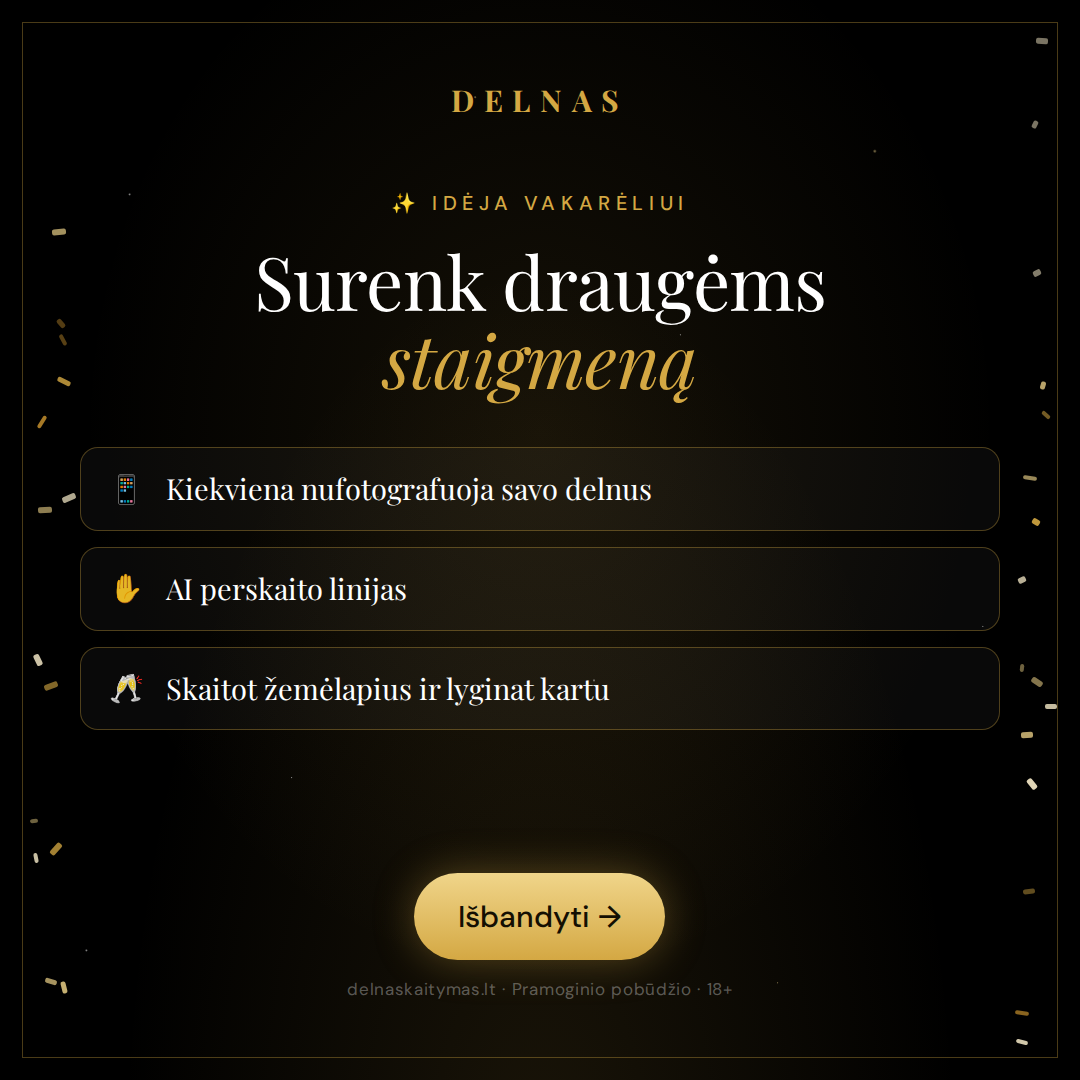
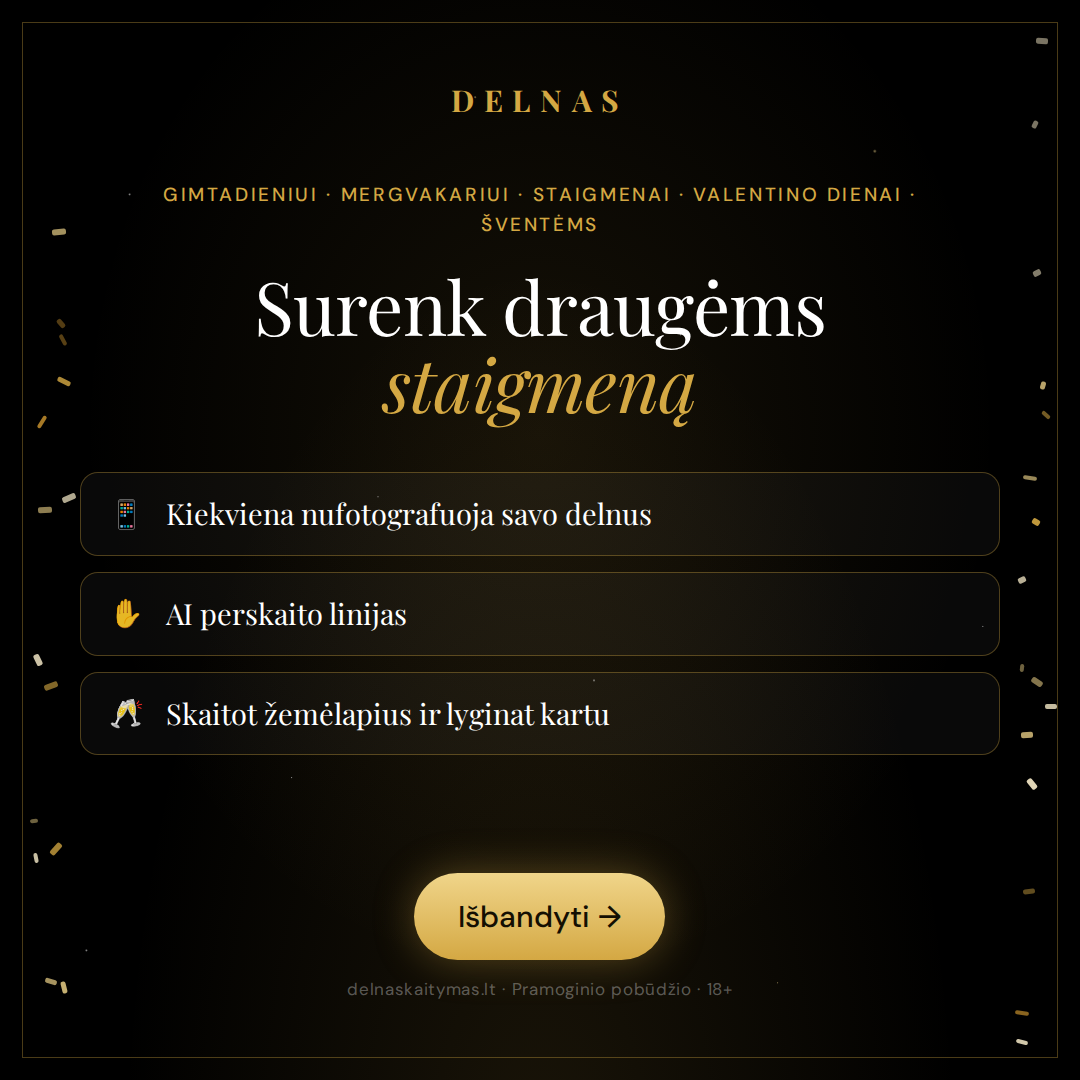
Reklamos: progų reklamos (31–39) bendros visoms progoms
Claude-Session: https://claude.ai/code/session_01SAS6jcXVwrehsNMXyhjzXP

diff --git a/reklamos/reklamos.html b/reklamos/reklamos.html
@@ -137,6 +137,9 @@
   .ad.valent h1 em,.ad.valent .eyebrow{color:#f0a0a8}
   .ad.valent .cta{background:linear-gradient(180deg,#f7c7b0,#e0867f);color:#2a0710;box-shadow:0 0 40px rgba(224,134,127,.4)}
   .ad.valent::after{border-color:rgba(240,160,168,.35)}
+
+  .occ{font:500 19px/1.6 'DM Sans';letter-spacing:.14em;text-transform:uppercase;color:var(--gold)}
+  .ad.light .occ{color:#a8781f} .ad.blush .occ{color:#a86a3a} .ad.valent .occ{color:#f0a0a8}
 </style>
 </head>
 <body>
@@ -793,8 +796,8 @@
   <div class="hand" style="width:520px;height:720px;right:-30px;top:260px"></div>
   <div class="brand">DELNAS</div>
   <div style="margin-top:120px;max-width:560px;display:flex;flex-direction:column;gap:30px">
-    <div class="eyebrow">🎂 Su gimtadieniu!</div>
-    <h1 style="font-size:76px">Gimtadienis —<br><em>geriausia proga<br>pažvelgti į save</em></h1>
+    <div class="occ">Gimtadieniui · Mergvakariui · Staigmenai · Valentino&nbsp;dienai · Šventėms</div>
+    <h1 style="font-size:70px"><span style="white-space:nowrap">Ypatinga proga —</span><br><em>pažvelgti į save</em></h1>
     <p class="sub" style="font-size:29px">Asmeninis gyvenimo žemėlapis pagal tavo delnus.</p>
   </div>
   <div class="row" style="margin-top:auto"><div class="cta">Pasidovanoti sau →</div></div>
@@ -808,7 +811,7 @@
 <div class="ad light" id="32-gimtadienio-vakarelis-story-1080x1920" style="width:1080px;height:1920px;padding:150px 90px 260px;align-items:center;text-align:center">
   <i class="cf" style="left:61px;top:1338px;width:10px;height:6px;background:#f0d58a;opacity:0.70;transform:rotate(47deg)"></i><i class="cf" style="left:1015px;top:1130px;width:12px;height:6px;background:#b8862a;opacity:0.74;transform:rotate(135deg)"></i><i class="cf" style="left:38px;top:1303px;width:10px;height:5px;background:#f0d58a;opacity:0.88;transform:rotate(77deg)"></i><i class="cf" style="left:42px;top:978px;width:12px;height:5px;background:#fff3cf;opacity:0.82;transform:rotate(162deg)"></i><i class="cf" style="left:51px;top:955px;width:10px;height:6px;background:#f0d58a;opacity:0.59;transform:rotate(87deg)"></i><i class="cf" style="left:41px;top:207px;width:14px;height:6px;background:#fff3cf;opacity:0.84;transform:rotate(62deg)"></i><i class="cf" style="left:1014px;top:162px;width:12px;height:4px;background:#d4a843;opacity:0.82;transform:rotate(18deg)"></i><i class="cf" style="left:1040px;top:673px;width:10px;height:4px;background:#d4a843;opacity:0.64;transform:rotate(67deg)"></i><i class="cf" style="left:1017px;top:1812px;width:14px;height:4px;background:#d4a843;opacity:0.52;transform:rotate(17deg)"></i><i class="cf" style="left:45px;top:1232px;width:12px;height:4px;background:#f0d58a;opacity:0.58;transform:rotate(71deg)"></i><i class="cf" style="left:1031px;top:1385px;width:8px;height:5px;background:#f0d58a;opacity:0.84;transform:rotate(45deg)"></i><i class="cf" style="left:1036px;top:1738px;width:12px;height:6px;background:#fff3cf;opacity:0.90;transform:rotate(77deg)"></i><i class="cf" style="left:1030px;top:1837px;width:8px;height:6px;background:#f0d58a;opacity:0.71;transform:rotate(166deg)"></i><i class="cf" style="left:54px;top:1309px;width:8px;height:5px;background:#f0d58a;opacity:0.60;transform:rotate(88deg)"></i><i class="cf" style="left:30px;top:895px;width:12px;height:4px;background:#b8862a;opacity:0.75;transform:rotate(116deg)"></i><i class="cf" style="left:1034px;top:1822px;width:14px;height:5px;background:#fff3cf;opacity:0.64;transform:rotate(36deg)"></i><i class="cf" style="left:1041px;top:1374px;width:8px;height:5px;background:#b8862a;opacity:0.72;transform:rotate(95deg)"></i><i class="cf" style="left:1021px;top:810px;width:14px;height:5px;background:#d4a843;opacity:0.68;transform:rotate(0deg)"></i><i class="cf" style="left:39px;top:758px;width:12px;height:5px;background:#b8862a;opacity:0.56;transform:rotate(16deg)"></i><i class="cf" style="left:42px;top:482px;width:10px;height:6px;background:#fff3cf;opacity:0.51;transform:rotate(172deg)"></i><i class="cf" style="left:1040px;top:1143px;width:12px;height:5px;background:#d4a843;opacity:0.57;transform:rotate(47deg)"></i><i class="cf" style="left:1030px;top:1623px;width:8px;height:5px;background:#fff3cf;opacity:0.75;transform:rotate(8deg)"></i><i class="cf" style="left:48px;top:245px;width:14px;height:6px;background:#fff3cf;opacity:0.87;transform:rotate(139deg)"></i><i class="cf" style="left:40px;top:658px;width:10px;height:6px;background:#b8862a;opacity:0.85;transform:rotate(67deg)"></i><i class="cf" style="left:36px;top:499px;width:8px;height:4px;background:#f0d58a;opacity:0.59;transform:rotate(88deg)"></i><i class="cf" style="left:36px;top:499px;width:8px;height:6px;background:#fff3cf;opacity:0.48;transform:rotate(94deg)"></i><i class="cf" style="left:57px;top:398px;width:12px;height:4px;background:#fff3cf;opacity:0.49;transform:rotate(100deg)"></i><i class="cf" style="left:63px;top:278px;width:14px;height:5px;background:#b8862a;opacity:0.80;transform:rotate(22deg)"></i><i class="cf" style="left:1045px;top:1873px;width:8px;height:4px;background:#fff3cf;opacity:0.85;transform:rotate(152deg)"></i><i class="cf" style="left:1044px;top:949px;width:14px;height:6px;background:#f0d58a;opacity:0.74;transform:rotate(102deg)"></i><i class="cf" style="left:48px;top:134px;width:12px;height:6px;background:#f0d58a;opacity:0.52;transform:rotate(112deg)"></i><i class="cf" style="left:51px;top:299px;width:8px;height:6px;background:#fff3cf;opacity:0.62;transform:rotate(113deg)"></i><i class="cf" style="left:1018px;top:921px;width:12px;height:6px;background:#fff3cf;opacity:0.49;transform:rotate(91deg)"></i><i class="cf" style="left:1026px;top:308px;width:8px;height:4px;background:#f0d58a;opacity:0.51;transform:rotate(21deg)"></i><i class="cf" style="left:1041px;top:1285px;width:10px;height:6px;background:#b8862a;opacity:0.85;transform:rotate(3deg)"></i><i class="cf" style="left:1016px;top:765px;width:12px;height:6px;background:#b8862a;opacity:0.59;transform:rotate(38deg)"></i><i class="cf" style="left:46px;top:1193px;width:14px;height:6px;background:#b8862a;opacity:0.74;transform:rotate(155deg)"></i><i class="cf" style="left:1045px;top:1768px;width:10px;height:6px;background:#fff3cf;opacity:0.84;transform:rotate(129deg)"></i><i class="cf" style="left:63px;top:584px;width:12px;height:6px;background:#b8862a;opacity:0.56;transform:rotate(107deg)"></i><i class="cf" style="left:33px;top:964px;width:8px;height:6px;background:#f0d58a;opacity:0.87;transform:rotate(179deg)"></i><i class="cf" style="left:32px;top:992px;width:12px;height:5px;background:#b8862a;opacity:0.45;transform:rotate(73deg)"></i><i class="cf" style="left:1041px;top:89px;width:8px;height:4px;background:#b8862a;opacity:0.64;transform:rotate(39deg)"></i><i class="cf" style="left:1026px;top:835px;width:12px;height:6px;background:#f0d58a;opacity:0.82;transform:rotate(19deg)"></i><i class="cf" style="left:1043px;top:450px;width:8px;height:4px;background:#fff3cf;opacity:0.71;transform:rotate(16deg)"></i><i class="cf" style="left:1039px;top:929px;width:12px;height:6px;background:#f0d58a;opacity:0.49;transform:rotate(123deg)"></i><i class="cf" style="left:1030px;top:823px;width:12px;height:5px;background:#d4a843;opacity:0.56;transform:rotate(92deg)"></i><i class="cf" style="left:56px;top:61px;width:12px;height:6px;background:#d4a843;opacity:0.63;transform:rotate(151deg)"></i><i class="cf" style="left:1012px;top:1365px;width:12px;height:6px;background:#f0d58a;opacity:0.74;transform:rotate(135deg)"></i><i class="cf" style="left:1027px;top:814px;width:10px;height:5px;background:#f0d58a;opacity:0.83;transform:rotate(101deg)"></i><i class="cf" style="left:1016px;top:1275px;width:12px;height:4px;background:#fff3cf;opacity:0.82;transform:rotate(14deg)"></i><i class="cf" style="left:1039px;top:974px;width:12px;height:4px;background:#b8862a;opacity:0.50;transform:rotate(91deg)"></i><i class="cf" style="left:34px;top:78px;width:10px;height:6px;background:#fff3cf;opacity:0.62;transform:rotate(1deg)"></i><i class="cf" style="left:55px;top:1727px;width:12px;height:5px;background:#fff3cf;opacity:0.50;transform:rotate(25deg)"></i><i class="cf" style="left:1032px;top:482px;width:14px;height:5px;background:#f0d58a;opacity:0.82;transform:rotate(118deg)"></i><i class="cf" style="left:1031px;top:530px;width:10px;height:5px;background:#fff3cf;opacity:0.61;transform:rotate(58deg)"></i><i class="cf" style="left:1020px;top:1614px;width:10px;height:4px;background:#b8862a;opacity:0.79;transform:rotate(129deg)"></i><i class="cf" style="left:1031px;top:556px;width:12px;height:6px;background:#b8862a;opacity:0.47;transform:rotate(96deg)"></i><i class="cf" style="left:59px;top:153px;width:10px;height:4px;background:#b8862a;opacity:0.67;transform:rotate(141deg)"></i><i class="cf" style="left:1039px;top:861px;width:8px;height:4px;background:#f0d58a;opacity:0.61;transform:rotate(2deg)"></i><i class="cf" style="left:1043px;top:1648px;width:8px;height:6px;background:#fff3cf;opacity:0.62;transform:rotate(160deg)"></i>
   <div class="brand">DELNAS</div>
-  <p class="eyebrow" style="margin-top:90px">🎉 Gimtadienio vakarėliui</p>
+  <div class="occ" style="margin-top:90px;max-width:900px;font-size:25px">Gimtadieniui · Mergvakariui · Staigmenai · Valentino&nbsp;dienai · Šventėms</div>
   <h1 style="font-size:88px;margin-top:30px">Kažkas<br><em>kitokio</em></h1>
   <div class="medal" style="width:360px;height:360px;left:120px;top:740px"><i></i></div>
   <div class="medal" style="width:360px;height:360px;left:360px;top:860px"><i style="transform:scaleX(-1)"></i></div>
@@ -827,7 +830,7 @@
 <div class="ad" id="33-staigmena-1080x1080" style="width:1080px;height:1080px;padding:80px;align-items:center;text-align:center">
   <i class="cf" style="left:32px;top:657px;width:12px;height:6px;background:#fff3cf;opacity:0.80;transform:rotate(64deg)"></i><i class="cf" style="left:1021px;top:732px;width:12px;height:6px;background:#f0d58a;opacity:0.76;transform:rotate(178deg)"></i><i class="cf" style="left:62px;top:495px;width:14px;height:6px;background:#fff3cf;opacity:0.69;transform:rotate(157deg)"></i><i class="cf" style="left:1031px;top:122px;width:8px;height:5px;background:#fff3cf;opacity:0.48;transform:rotate(117deg)"></i><i class="cf" style="left:1026px;top:781px;width:12px;height:6px;background:#fff3cf;opacity:0.88;transform:rotate(51deg)"></i><i class="cf" style="left:1015px;top:1011px;width:14px;height:4px;background:#b8862a;opacity:0.75;transform:rotate(9deg)"></i><i class="cf" style="left:1031px;top:679px;width:12px;height:6px;background:#f0d58a;opacity:0.55;transform:rotate(33deg)"></i><i class="cf" style="left:1023px;top:476px;width:14px;height:4px;background:#f0d58a;opacity:0.64;transform:rotate(8deg)"></i><i class="cf" style="left:1033px;top:270px;width:8px;height:6px;background:#fff3cf;opacity:0.51;transform:rotate(153deg)"></i><i class="cf" style="left:57px;top:338px;width:12px;height:4px;background:#b8862a;opacity:0.48;transform:rotate(62deg)"></i><i class="cf" style="left:1018px;top:577px;width:8px;height:6px;background:#fff3cf;opacity:0.72;transform:rotate(155deg)"></i><i class="cf" style="left:45px;top:979px;width:12px;height:5px;background:#f0d58a;opacity:0.69;transform:rotate(17deg)"></i><i class="cf" style="left:31px;top:856px;width:10px;height:4px;background:#fff3cf;opacity:0.78;transform:rotate(79deg)"></i><i class="cf" style="left:49px;top:846px;width:14px;height:6px;background:#d4a843;opacity:0.77;transform:rotate(132deg)"></i><i class="cf" style="left:35px;top:420px;width:14px;height:4px;background:#b8862a;opacity:0.90;transform:rotate(122deg)"></i><i class="cf" style="left:1039px;top:383px;width:8px;height:5px;background:#f0d58a;opacity:0.76;transform:rotate(107deg)"></i><i class="cf" style="left:52px;top:229px;width:14px;height:6px;background:#f0d58a;opacity:0.68;transform:rotate(174deg)"></i><i class="cf" style="left:1023px;top:889px;width:12px;height:5px;background:#d4a843;opacity:0.46;transform:rotate(174deg)"></i><i class="cf" style="left:1016px;top:1040px;width:12px;height:4px;background:#fff3cf;opacity:0.82;transform:rotate(14deg)"></i><i class="cf" style="left:1036px;top:38px;width:12px;height:6px;background:#fff3cf;opacity:0.48;transform:rotate(4deg)"></i><i class="cf" style="left:56px;top:321px;width:10px;height:5px;background:#b8862a;opacity:0.45;transform:rotate(49deg)"></i><i class="cf" style="left:1045px;top:704px;width:12px;height:5px;background:#fff3cf;opacity:0.77;transform:rotate(179deg)"></i><i class="cf" style="left:1041px;top:413px;width:10px;height:4px;background:#d4a843;opacity:0.54;transform:rotate(42deg)"></i><i class="cf" style="left:57px;top:379px;width:14px;height:5px;background:#d4a843;opacity:0.81;transform:rotate(26deg)"></i><i class="cf" style="left:58px;top:985px;width:12px;height:5px;background:#f0d58a;opacity:0.82;transform:rotate(76deg)"></i><i class="cf" style="left:44px;top:683px;width:14px;height:6px;background:#d4a843;opacity:0.61;transform:rotate(160deg)"></i><i class="cf" style="left:38px;top:507px;width:14px;height:6px;background:#f0d58a;opacity:0.59;transform:rotate(177deg)"></i><i class="cf" style="left:1018px;top:666px;width:8px;height:4px;background:#f0d58a;opacity:0.46;transform:rotate(96deg)"></i><i class="cf" style="left:30px;top:819px;width:8px;height:4px;background:#f0d58a;opacity:0.46;transform:rotate(175deg)"></i><i class="cf" style="left:1032px;top:519px;width:8px;height:6px;background:#d4a843;opacity:0.90;transform:rotate(33deg)"></i>
   <div class="brand">DELNAS</div>
-  <div class="eyebrow" style="margin-top:70px">✨ Idėja vakarėliui</div>
+  <div class="occ" style="margin-top:60px;max-width:880px">Gimtadieniui · Mergvakariui · Staigmenai · Valentino&nbsp;dienai · Šventėms</div>
   <h1 style="font-size:74px;margin-top:26px">Surenk draugėms<br><em>staigmeną</em></h1>
   <div style="margin-top:50px;display:flex;flex-direction:column;gap:16px;align-self:stretch;text-align:left">
     <div class="lock"><i>📱</i><b>Kiekviena nufotografuoja savo delnus</b></div>
@@ -847,7 +850,8 @@
 <div class="ad" id="34-staigmena-story-1080x1920" style="width:1080px;height:1920px;padding:150px 90px 260px;align-items:center;text-align:center">
   <i class="cf" style="left:63px;top:316px;width:8px;height:6px;background:#f0d58a;opacity:0.53;transform:rotate(29deg)"></i><i class="cf" style="left:51px;top:641px;width:14px;height:6px;background:#fff3cf;opacity:0.84;transform:rotate(33deg)"></i><i class="cf" style="left:1017px;top:973px;width:8px;height:6px;background:#fff3cf;opacity:0.87;transform:rotate(164deg)"></i><i class="cf" style="left:47px;top:709px;width:14px;height:5px;background:#b8862a;opacity:0.47;transform:rotate(169deg)"></i><i class="cf" style="left:1043px;top:475px;width:12px;height:4px;background:#f0d58a;opacity:0.46;transform:rotate(70deg)"></i><i class="cf" style="left:48px;top:920px;width:12px;height:5px;background:#b8862a;opacity:0.88;transform:rotate(11deg)"></i><i class="cf" style="left:1021px;top:1423px;width:8px;height:4px;background:#d4a843;opacity:0.56;transform:rotate(169deg)"></i><i class="cf" style="left:51px;top:825px;width:10px;height:4px;background:#f0d58a;opacity:0.81;transform:rotate(143deg)"></i><i class="cf" style="left:1030px;top:1461px;width:12px;height:4px;background:#d4a843;opacity:0.65;transform:rotate(54deg)"></i><i class="cf" style="left:60px;top:1250px;width:12px;height:6px;background:#f0d58a;opacity:0.68;transform:rotate(36deg)"></i><i class="cf" style="left:56px;top:1586px;width:8px;height:4px;background:#b8862a;opacity:0.82;transform:rotate(126deg)"></i><i class="cf" style="left:64px;top:283px;width:10px;height:5px;background:#fff3cf;opacity:0.76;transform:rotate(14deg)"></i><i class="cf" style="left:32px;top:1431px;width:8px;height:4px;background:#f0d58a;opacity:0.47;transform:rotate(64deg)"></i><i class="cf" style="left:46px;top:1264px;width:12px;height:6px;background:#fff3cf;opacity:0.75;transform:rotate(3deg)"></i><i class="cf" style="left:60px;top:440px;width:10px;height:4px;background:#d4a843;opacity:0.45;transform:rotate(102deg)"></i><i class="cf" style="left:1038px;top:501px;width:14px;height:6px;background:#d4a843;opacity:0.87;transform:rotate(31deg)"></i><i class="cf" style="left:1026px;top:1030px;width:14px;height:6px;background:#fff3cf;opacity:0.64;transform:rotate(127deg)"></i><i class="cf" style="left:31px;top:1126px;width:14px;height:4px;background:#fff3cf;opacity:0.66;transform:rotate(125deg)"></i><i class="cf" style="left:1038px;top:811px;width:10px;height:6px;background:#f0d58a;opacity:0.61;transform:rotate(74deg)"></i><i class="cf" style="left:1018px;top:1488px;width:12px;height:4px;background:#d4a843;opacity:0.90;transform:rotate(171deg)"></i><i class="cf" style="left:1039px;top:247px;width:10px;height:5px;background:#b8862a;opacity:0.56;transform:rotate(20deg)"></i><i class="cf" style="left:1041px;top:1281px;width:14px;height:5px;background:#b8862a;opacity:0.75;transform:rotate(152deg)"></i><i class="cf" style="left:1032px;top:375px;width:14px;height:6px;background:#b8862a;opacity:0.78;transform:rotate(51deg)"></i><i class="cf" style="left:35px;top:344px;width:10px;height:5px;background:#f0d58a;opacity:0.64;transform:rotate(35deg)"></i><i class="cf" style="left:64px;top:1211px;width:8px;height:6px;background:#d4a843;opacity:0.47;transform:rotate(155deg)"></i><i class="cf" style="left:48px;top:899px;width:14px;height:5px;background:#fff3cf;opacity:0.81;transform:rotate(131deg)"></i><i class="cf" style="left:35px;top:246px;width:8px;height:6px;background:#fff3cf;opacity:0.53;transform:rotate(23deg)"></i><i class="cf" style="left:1017px;top:649px;width:8px;height:6px;background:#f0d58a;opacity:0.53;transform:rotate(120deg)"></i><i class="cf" style="left:63px;top:1866px;width:8px;height:4px;background:#d4a843;opacity:0.76;transform:rotate(155deg)"></i><i class="cf" style="left:65px;top:877px;width:8px;height:5px;background:#fff3cf;opacity:0.46;transform:rotate(12deg)"></i><i class="cf" style="left:63px;top:1768px;width:12px;height:5px;background:#fff3cf;opacity:0.90;transform:rotate(18deg)"></i><i class="cf" style="left:1034px;top:1785px;width:8px;height:4px;background:#fff3cf;opacity:0.56;transform:rotate(53deg)"></i><i class="cf" style="left:46px;top:1252px;width:10px;height:6px;background:#f0d58a;opacity:0.82;transform:rotate(122deg)"></i><i class="cf" style="left:64px;top:184px;width:10px;height:6px;background:#d4a843;opacity:0.66;transform:rotate(66deg)"></i><i class="cf" style="left:1018px;top:1287px;width:10px;height:5px;background:#b8862a;opacity:0.61;transform:rotate(77deg)"></i><i class="cf" style="left:64px;top:1631px;width:12px;height:5px;background:#fff3cf;opacity:0.73;transform:rotate(33deg)"></i><i class="cf" style="left:1014px;top:456px;width:14px;height:4px;background:#fff3cf;opacity:0.74;transform:rotate(37deg)"></i><i class="cf" style="left:65px;top:309px;width:14px;height:4px;background:#f0d58a;opacity:0.86;transform:rotate(63deg)"></i><i class="cf" style="left:60px;top:1316px;width:8px;height:6px;background:#d4a843;opacity:0.71;transform:rotate(26deg)"></i><i class="cf" style="left:1027px;top:433px;width:10px;height:5px;background:#b8862a;opacity:0.83;transform:rotate(171deg)"></i><i class="cf" style="left:1019px;top:571px;width:14px;height:6px;background:#fff3cf;opacity:0.77;transform:rotate(34deg)"></i><i class="cf" style="left:1045px;top:531px;width:14px;height:5px;background:#d4a843;opacity:0.73;transform:rotate(11deg)"></i><i class="cf" style="left:62px;top:405px;width:14px;height:5px;background:#f0d58a;opacity:0.48;transform:rotate(49deg)"></i><i class="cf" style="left:48px;top:740px;width:14px;height:6px;background:#d4a843;opacity:0.70;transform:rotate(83deg)"></i><i class="cf" style="left:1016px;top:1410px;width:12px;height:5px;background:#fff3cf;opacity:0.62;transform:rotate(51deg)"></i><i class="cf" style="left:1017px;top:862px;width:8px;height:4px;background:#fff3cf;opacity:0.77;transform:rotate(61deg)"></i><i class="cf" style="left:1030px;top:1701px;width:8px;height:4px;background:#f0d58a;opacity:0.68;transform:rotate(9deg)"></i><i class="cf" style="left:60px;top:158px;width:8px;height:6px;background:#fff3cf;opacity:0.53;transform:rotate(111deg)"></i><i class="cf" style="left:33px;top:588px;width:8px;height:4px;background:#b8862a;opacity:0.49;transform:rotate(153deg)"></i><i class="cf" style="left:36px;top:490px;width:12px;height:5px;background:#b8862a;opacity:0.66;transform:rotate(81deg)"></i><i class="cf" style="left:36px;top:485px;width:12px;height:6px;background:#b8862a;opacity:0.55;transform:rotate(119deg)"></i><i class="cf" style="left:50px;top:169px;width:10px;height:6px;background:#fff3cf;opacity:0.68;transform:rotate(57deg)"></i><i class="cf" style="left:62px;top:967px;width:12px;height:6px;background:#d4a843;opacity:0.65;transform:rotate(156deg)"></i><i class="cf" style="left:1032px;top:1163px;width:14px;height:5px;background:#d4a843;opacity:0.70;transform:rotate(91deg)"></i><i class="cf" style="left:32px;top:1357px;width:10px;height:4px;background:#d4a843;opacity:0.65;transform:rotate(128deg)"></i>
   <div class="brand">DELNAS</div>
-  <h1 style="font-size:92px;margin-top:110px">Vakarėlis,<br>kurį <em>prisiminsit</em></h1>
+  <div class="occ" style="margin-top:90px;max-width:900px;font-size:25px">Gimtadieniui · Mergvakariui · Staigmenai · Valentino&nbsp;dienai · Šventėms</div>
+  <h1 style="font-size:92px;margin-top:30px">Vakarėlis,<br>kurį <em>prisiminsit</em></h1>
   <div class="glow" style="width:900px;height:900px;left:90px;top:560px"></div>
   <div class="hand" style="width:480px;height:670px;left:300px;top:640px"></div>
   <div style="margin-top:auto;display:flex;flex-direction:column;gap:30px;align-items:center">
@@ -866,9 +870,9 @@
   <div class="medal" style="width:420px;height:420px;right:80px;top:300px;border-color:#c9a24a"><i></i></div>
   <div class="brand">DELNAS</div>
   <div style="margin-top:140px;max-width:460px;display:flex;flex-direction:column;gap:28px">
-    <div class="eyebrow">👰 Mergvakariui</div>
+    <div class="occ">Gimtadieniui · Mergvakariui · Staigmenai · Valentino&nbsp;dienai · Šventėms</div>
     <h1 style="font-size:76px">Pramoga,<br><em>kurios dar<br>nebandėt</em></h1>
-    <p class="sub" style="font-size:29px">Ką apie nuotaką ir jos drauges pasakoja delnų linijos?</p>
+    <p class="sub" style="font-size:29px">Ką apie tave ir tavo drauges pasakoja delnų linijos?</p>
   </div>
   <div class="row" style="margin-top:auto">
     <div class="cta">Išbandyti →</div>
@@ -883,8 +887,8 @@
 <div class="ad blush" id="36-mergvakaris-story-1080x1920" style="width:1080px;height:1920px;padding:150px 90px 260px;align-items:center;text-align:center">
   <i class="cf" style="left:62px;top:624px;width:14px;height:5px;background:#c98a86;opacity:0.56;transform:rotate(48deg)"></i><i class="cf" style="left:61px;top:1758px;width:12px;height:6px;background:#f3d9a4;opacity:0.70;transform:rotate(162deg)"></i><i class="cf" style="left:46px;top:1807px;width:12px;height:6px;background:#c98a86;opacity:0.65;transform:rotate(83deg)"></i><i class="cf" style="left:64px;top:931px;width:12px;height:5px;background:#e8b4b0;opacity:0.65;transform:rotate(54deg)"></i><i class="cf" style="left:46px;top:701px;width:8px;height:5px;background:#f3d9a4;opacity:0.49;transform:rotate(53deg)"></i><i class="cf" style="left:40px;top:107px;width:8px;height:4px;background:#f3d9a4;opacity:0.53;transform:rotate(141deg)"></i><i class="cf" style="left:42px;top:137px;width:12px;height:4px;background:#f3d9a4;opacity:0.74;transform:rotate(126deg)"></i><i class="cf" style="left:51px;top:486px;width:14px;height:5px;background:#d4a843;opacity:0.72;transform:rotate(161deg)"></i><i class="cf" style="left:1015px;top:326px;width:12px;height:4px;background:#e8b4b0;opacity:0.70;transform:rotate(131deg)"></i><i class="cf" style="left:1033px;top:335px;width:10px;height:4px;background:#d4a843;opacity:0.72;transform:rotate(57deg)"></i><i class="cf" style="left:62px;top:1845px;width:12px;height:4px;background:#e8b4b0;opacity:0.60;transform:rotate(173deg)"></i><i class="cf" style="left:1025px;top:1662px;width:12px;height:5px;background:#e8b4b0;opacity:0.63;transform:rotate(137deg)"></i><i class="cf" style="left:38px;top:1094px;width:12px;height:5px;background:#c98a86;opacity:0.76;transform:rotate(33deg)"></i><i class="cf" style="left:1036px;top:1145px;width:10px;height:6px;background:#c98a86;opacity:0.80;transform:rotate(130deg)"></i><i class="cf" style="left:65px;top:310px;width:12px;height:4px;background:#d4a843;opacity:0.70;transform:rotate(173deg)"></i><i class="cf" style="left:63px;top:1504px;width:10px;height:6px;background:#e8b4b0;opacity:0.86;transform:rotate(141deg)"></i><i class="cf" style="left:56px;top:1790px;width:14px;height:6px;background:#e8b4b0;opacity:0.85;transform:rotate(40deg)"></i><i class="cf" style="left:1029px;top:1564px;width:12px;height:4px;background:#c98a86;opacity:0.57;transform:rotate(146deg)"></i><i class="cf" style="left:65px;top:1392px;width:10px;height:6px;background:#f3d9a4;opacity:0.54;transform:rotate(61deg)"></i><i class="cf" style="left:1039px;top:796px;width:8px;height:6px;background:#c98a86;opacity:0.53;transform:rotate(64deg)"></i><i class="cf" style="left:1046px;top:234px;width:14px;height:6px;background:#c98a86;opacity:0.45;transform:rotate(15deg)"></i><i class="cf" style="left:52px;top:1015px;width:8px;height:4px;background:#f3d9a4;opacity:0.58;transform:rotate(100deg)"></i><i class="cf" style="left:31px;top:1053px;width:14px;height:6px;background:#f3d9a4;opacity:0.59;transform:rotate(54deg)"></i><i class="cf" style="left:39px;top:1620px;width:14px;height:5px;background:#c98a86;opacity:0.52;transform:rotate(22deg)"></i><i class="cf" style="left:62px;top:869px;width:10px;height:6px;background:#c98a86;opacity:0.74;transform:rotate(27deg)"></i><i class="cf" style="left:35px;top:111px;width:12px;height:4px;background:#c98a86;opacity:0.63;transform:rotate(98deg)"></i><i class="cf" style="left:64px;top:1207px;width:14px;height:6px;background:#d4a843;opacity:0.69;transform:rotate(139deg)"></i><i class="cf" style="left:34px;top:1653px;width:8px;height:6px;background:#f3d9a4;opacity:0.85;transform:rotate(38deg)"></i><i class="cf" style="left:44px;top:385px;width:8px;height:6px;background:#f3d9a4;opacity:0.48;transform:rotate(144deg)"></i><i class="cf" style="left:1023px;top:1301px;width:12px;height:4px;background:#f3d9a4;opacity:0.84;transform:rotate(43deg)"></i><i class="cf" style="left:34px;top:1383px;width:12px;height:5px;background:#c98a86;opacity:0.45;transform:rotate(102deg)"></i><i class="cf" style="left:1047px;top:1264px;width:12px;height:5px;background:#d4a843;opacity:0.47;transform:rotate(76deg)"></i><i class="cf" style="left:36px;top:634px;width:10px;height:4px;background:#f3d9a4;opacity:0.73;transform:rotate(16deg)"></i><i class="cf" style="left:1044px;top:1810px;width:10px;height:5px;background:#f3d9a4;opacity:0.66;transform:rotate(176deg)"></i><i class="cf" style="left:65px;top:668px;width:8px;height:4px;background:#d4a843;opacity:0.67;transform:rotate(26deg)"></i><i class="cf" style="left:1014px;top:1623px;width:12px;height:6px;background:#d4a843;opacity:0.73;transform:rotate(117deg)"></i><i class="cf" style="left:42px;top:1179px;width:12px;height:5px;background:#c98a86;opacity:0.48;transform:rotate(81deg)"></i><i class="cf" style="left:1038px;top:1360px;width:8px;height:6px;background:#c98a86;opacity:0.82;transform:rotate(144deg)"></i><i class="cf" style="left:1015px;top:478px;width:14px;height:5px;background:#c98a86;opacity:0.88;transform:rotate(108deg)"></i><i class="cf" style="left:35px;top:600px;width:12px;height:4px;background:#f3d9a4;opacity:0.89;transform:rotate(118deg)"></i><i class="cf" style="left:63px;top:662px;width:14px;height:6px;background:#e8b4b0;opacity:0.68;transform:rotate(43deg)"></i><i class="cf" style="left:34px;top:646px;width:10px;height:6px;background:#f3d9a4;opacity:0.53;transform:rotate(53deg)"></i><i class="cf" style="left:1017px;top:1431px;width:10px;height:4px;background:#f3d9a4;opacity:0.61;transform:rotate(155deg)"></i><i class="cf" style="left:1042px;top:1483px;width:14px;height:4px;background:#f3d9a4;opacity:0.86;transform:rotate(60deg)"></i><i class="cf" style="left:1047px;top:1421px;width:12px;height:4px;background:#f3d9a4;opacity:0.49;transform:rotate(46deg)"></i><i class="cf" style="left:48px;top:382px;width:10px;height:4px;background:#d4a843;opacity:0.50;transform:rotate(75deg)"></i><i class="cf" style="left:48px;top:483px;width:10px;height:4px;background:#f3d9a4;opacity:0.58;transform:rotate(44deg)"></i><i class="cf" style="left:1013px;top:1680px;width:14px;height:5px;background:#f3d9a4;opacity:0.73;transform:rotate(172deg)"></i><i class="cf" style="left:1012px;top:805px;width:10px;height:4px;background:#f3d9a4;opacity:0.54;transform:rotate(45deg)"></i><i class="cf" style="left:59px;top:209px;width:14px;height:4px;background:#c98a86;opacity:0.63;transform:rotate(13deg)"></i><i class="cf" style="left:1039px;top:1401px;width:14px;height:5px;background:#c98a86;opacity:0.62;transform:rotate(36deg)"></i><i class="cf" style="left:1025px;top:1436px;width:10px;height:6px;background:#e8b4b0;opacity:0.54;transform:rotate(156deg)"></i><i class="cf" style="left:36px;top:1590px;width:10px;height:6px;background:#f3d9a4;opacity:0.72;transform:rotate(101deg)"></i><i class="cf" style="left:1014px;top:1353px;width:14px;height:6px;background:#e8b4b0;opacity:0.50;transform:rotate(55deg)"></i><i class="cf" style="left:1032px;top:431px;width:14px;height:4px;background:#d4a843;opacity:0.86;transform:rotate(146deg)"></i><i class="cf" style="left:1020px;top:934px;width:12px;height:5px;background:#f3d9a4;opacity:0.85;transform:rotate(64deg)"></i><i class="cf" style="left:30px;top:553px;width:12px;height:5px;background:#e8b4b0;opacity:0.50;transform:rotate(142deg)"></i><i class="cf" style="left:1015px;top:1709px;width:10px;height:4px;background:#e8b4b0;opacity:0.56;transform:rotate(163deg)"></i><i class="cf" style="left:43px;top:1675px;width:10px;height:5px;background:#d4a843;opacity:0.64;transform:rotate(103deg)"></i><i class="cf" style="left:31px;top:168px;width:12px;height:6px;background:#c98a86;opacity:0.57;transform:rotate(23deg)"></i><i class="cf" style="left:63px;top:1084px;width:8px;height:5px;background:#e8b4b0;opacity:0.48;transform:rotate(164deg)"></i><i class="cf" style="left:1038px;top:632px;width:12px;height:6px;background:#d4a843;opacity:0.81;transform:rotate(142deg)"></i><i class="cf" style="left:1023px;top:1405px;width:8px;height:6px;background:#d4a843;opacity:0.83;transform:rotate(32deg)"></i><i class="cf" style="left:1042px;top:873px;width:12px;height:6px;background:#f3d9a4;opacity:0.52;transform:rotate(82deg)"></i><i class="cf" style="left:1029px;top:1828px;width:10px;height:5px;background:#e8b4b0;opacity:0.90;transform:rotate(145deg)"></i><i class="cf" style="left:1018px;top:1062px;width:12px;height:4px;background:#c98a86;opacity:0.72;transform:rotate(76deg)"></i><i class="cf" style="left:1021px;top:198px;width:8px;height:5px;background:#f3d9a4;opacity:0.48;transform:rotate(139deg)"></i><i class="cf" style="left:51px;top:870px;width:8px;height:5px;background:#f3d9a4;opacity:0.58;transform:rotate(169deg)"></i><i class="cf" style="left:40px;top:397px;width:12px;height:4px;background:#f3d9a4;opacity:0.76;transform:rotate(105deg)"></i><i class="cf" style="left:1031px;top:466px;width:8px;height:4px;background:#e8b4b0;opacity:0.53;transform:rotate(159deg)"></i>
   <div class="brand">DELNAS</div>
-  <p class="eyebrow" style="margin-top:90px">👰 Mergvakario vakarui</p>
-  <h1 style="font-size:88px;margin-top:30px">Nuotaka<br><em>ir jos draugės</em></h1>
+  <div class="occ" style="margin-top:90px;max-width:900px;font-size:25px">Gimtadieniui · Mergvakariui · Staigmenai · Valentino&nbsp;dienai · Šventėms</div>
+  <h1 style="font-size:88px;margin-top:30px">Tu<br><em>ir tavo draugės</em></h1>
   <div class="medal" style="width:420px;height:420px;left:330px;top:700px;border-color:#c9a24a"><i></i></div>
   <div class="medal" style="width:260px;height:260px;left:110px;top:900px;border-color:#c9a24a"><i style="transform:scaleX(-1)"></i></div>
   <div class="medal" style="width:260px;height:260px;left:710px;top:900px;border-color:#c9a24a"><i style="transform:scaleX(-1)"></i></div>
@@ -906,9 +910,9 @@
   <div class="medal" style="width:300px;height:300px;left:560px;top:200px;border-color:#e0a0a0"><i style="transform:scaleX(-1)"></i></div>
   <div style="position:absolute;left:0;right:0;top:318px;text-align:center;font-size:56px;color:#f0a0a8">♥</div>
   <div style="margin-top:450px;display:flex;flex-direction:column;gap:24px;align-items:center">
-    <div class="eyebrow">♥ Valentino dienai</div>
-    <h1 style="font-size:70px">Ką apie meilę pasakoja<br><em>jūsų delnai?</em></h1>
-    <p class="sub" style="font-size:28px">Nufotografuokit delnus ir palyginkit savo širdies linijas.</p>
+    <div class="occ" style="max-width:880px">Gimtadieniui · Mergvakariui · Staigmenai · Valentino&nbsp;dienai · Šventėms</div>
+    <h1 style="font-size:70px">Ką apie jus pasakoja<br><em>jūsų delnai?</em></h1>
+    <p class="sub" style="font-size:28px">Nufotografuokit delnus ir palyginkit savo žemėlapius.</p>
   </div>
   <div style="margin-top:auto;display:flex;flex-direction:column;gap:18px;align-items:center">
     <div class="cta" style="align-self:center">Išbandyti dviese →</div>
@@ -923,7 +927,7 @@
 <div class="ad valent" id="38-valentino-sirdies-linija-story-1080x1920" style="width:1080px;height:1920px;padding:150px 90px 260px;align-items:center;text-align:center">
   <div style="position:absolute;left:120px;top:300px;font-size:40px;color:#e0867f;opacity:.5">♥</div><div style="position:absolute;left:900px;top:420px;font-size:32px;color:#e0867f;opacity:.5">♥</div><div style="position:absolute;left:80px;top:1250px;font-size:34px;color:#e0867f;opacity:.5">♥</div><div style="position:absolute;left:930px;top:1150px;font-size:44px;color:#e0867f;opacity:.5">♥</div>
   <div class="brand">DELNAS</div>
-  <p class="eyebrow" style="margin-top:90px">♥ Valentino dienai</p>
+  <div class="occ" style="margin-top:90px;max-width:900px;font-size:25px">Gimtadieniui · Mergvakariui · Staigmenai · Valentino&nbsp;dienai · Šventėms</div>
   <h1 style="font-size:92px;margin-top:30px">Širdies linija<br><em>pasakoja daug</em></h1>
   <div style="margin-top:60px"><svg viewBox="0 0 400 520" width="492" height="640" fill="none" stroke-linecap="round" stroke-linejoin="round"><defs><filter id="g30122" x="-50%" y="-50%" width="200%" height="200%"><feGaussianBlur stdDeviation="6" result="b"/><feMerge><feMergeNode in="b"/><feMergeNode in="SourceGraphic"/></feMerge></filter></defs><path d="M150 500 L150 470 Q96 440 90 360 L70 300 Q50 255 78 245 Q100 240 112 270 L120 290 L102 110 Q98 80 124 78 Q148 78 150 108 L160 205 L164 70 Q164 42 188 42 Q212 42 212 70 L212 200 L226 88 Q230 62 252 64 Q274 68 272 94 L262 212 L288 142 Q296 120 316 126 Q334 134 328 158 L306 270 Q300 400 272 450 L270 500" stroke="rgba(240,160,168,.55)" stroke-width="3"/><path d="M132 250 Q118 330 140 400 Q152 440 168 472" stroke="rgba(240,160,168,.25)" stroke-width="3.5"/><path d="M300 262 Q250 250 205 262 Q175 270 158 250" stroke="#ff8a96" stroke-width="7" filter="url(#g30122)"/><path d="M134 258 Q190 292 240 304 Q276 312 300 328" stroke="rgba(240,160,168,.25)" stroke-width="3.5"/><path d="M205 470 Q200 380 198 290 Q197 250 190 222" stroke="rgba(240,160,168,.25)" stroke-width="3.5"/></svg></div>
   <div style="margin-top:auto;display:flex;flex-direction:column;gap:30px;align-items:center">
@@ -943,7 +947,7 @@
   <div class="hand" style="width:540px;height:750px;right:-60px;top:330px;filter:sepia(.5) saturate(1.8) hue-rotate(-30deg) brightness(1.05)"></div>
   <div class="brand">DELNAS</div>
   <div style="margin-top:200px;max-width:560px;display:flex;flex-direction:column;gap:30px">
-    <div class="eyebrow">♥ Vasario 14-ajai</div>
+    <div class="occ">Gimtadieniui · Mergvakariui · Staigmenai · Valentino&nbsp;dienai · Šventėms</div>
     <h1 style="font-size:80px">Pirmiausia —<br><em>pažink savo<br>širdį</em></h1>
     <p class="sub">Kaip tu myli, ko ieškai santykiuose ir kas tave išskiria — tavo delnuose.</p>
   </div>

diff --git a/reklamos/TEKSTAI.md b/reklamos/TEKSTAI.md
@@ -313,50 +313,38 @@ Kalėdinį video generuoti: `node reklamos/video-render.js video3.html delnas-re
 
 ---
 
-## 🎉 Progų banga (gimtadienis, staigmena, mergvakaris, Valentino diena)
+## 🎉 Progų banga (tinka visoms progoms, rodyti visus metus)
 
-| Failas | Formatas | Proga |
+Kiekvienoje reklamoje parašyta: **Gimtadieniui · Mergvakariui · Staigmenai · Valentino dienai · Šventėms** — todėl jos nepririštos prie vienos šventės.
+
+| Failas | Formatas | Antraštė |
 |---|---|---|
-| `31-gimtadienis-1080x1080.png` | 1:1 | Gimtadienis sau — „Geriausia proga pažvelgti į save“ |
-| `32-gimtadienio-vakarelis-story-1080x1920.png` | 9:16 | Gimtadienio vakarėlis — „Kažkas kitokio“ |
+| `31-gimtadienis-1080x1080.png` | 1:1 | „Ypatinga proga — pažvelgti į save“ |
+| `32-gimtadienio-vakarelis-story-1080x1920.png` | 9:16 | „Kažkas kitokio“ (trys delnai) |
 | `33-staigmena-1080x1080.png` | 1:1 | „Surenk draugėms staigmeną“ + 3 žingsniai |
 | `34-staigmena-story-1080x1920.png` | 9:16 | „Vakarėlis, kurį prisiminsit“ |
-| `35-mergvakaris-1080x1080.png` | 1:1 | Mergvakaris — „Pramoga, kurios dar nebandėt“ |
-| `36-mergvakaris-story-1080x1920.png` | 9:16 | „Nuotaka ir jos draugės“ |
-| `37-valentino-poroms-1080x1080.png` | 1:1 | Poroms — „Ką apie meilę pasakoja jūsų delnai?“ |
+| `35-mergvakaris-1080x1080.png` | 1:1 | „Pramoga, kurios dar nebandėt“ |
+| `36-mergvakaris-story-1080x1920.png` | 9:16 | „Tu ir tavo draugės“ |
+| `37-valentino-poroms-1080x1080.png` | 1:1 | „Ką apie jus pasakoja jūsų delnai?“ (dviese) |
 | `38-valentino-sirdies-linija-story-1080x1920.png` | 9:16 | „Širdies linija pasakoja daug“ |
-| `39-valentino-sau-1080x1350.png` | 4:5 | Vienišoms / sau — „Pirmiausia — pažink savo širdį“ |
+| `39-valentino-sau-1080x1350.png` | 4:5 | „Pirmiausia — pažink savo širdį“ |
 
-**Kada rodyti:**
+(Failų pavadinimai liko seni, kad nesusipainiotų nuorodos — turinys dabar bendras visoms progoms.)
 
-| Proga | Laikotarpis | Taikymas |
-|---|---|---|
-| Gimtadienis (31) | Visus metus | Meta „Life events → Upcoming birthday“, jei ši parinktis tavo paskyroje dar yra; kitu atveju — plati auditorija |
-| Gimtadienio vakarėlis, staigmena (32–34) | Visus metus, ypač penktadieniais–šeštadieniais | Moterys 20–40, pomėgiai: vakarėliai, draugystė, pramogos |
-| Mergvakaris (35, 36) | Balandis–rugsėjis (vestuvių sezonas) | „Life events → Engaged“ (susižadėjusios) + jų draugės, pomėgiai: vestuvės |
-| Valentino diena (37–39) | Vasario 1–14 | 37, 38 — poroms („In a relationship“); 39 — visoms (be santykių statuso) |
+**Kada rodyti:** visus metus. Prieš konkrečią progą galima padidinti biudžetą: vasario pradžioje (37–39), balandį–rugsėjį (35, 36 — vestuvių sezonas), prieš šventes (32–34).
 
 **Tekstai:**
 
-**U — gimtadienis sau (31)**
-> Su gimtadieniu! 🎂 Geriausia dovana — pažvelgti į save.
-> Asmeninis gyvenimo žemėlapis pagal tavo delnus: stiprybės, kryptis, pokyčiai. Per kelias minutes.
+**U — sau (31, 39)**
+> Gimtadienis, šventė ar tiesiog ypatinga diena — puiki proga pažvelgti į save ✨
+> Asmeninis gyvenimo žemėlapis pagal tavo delnus: stiprybės, kryptis, santykiai ir pokyčiai. Per kelias minutes.
 
-**V — vakarėlis / staigmena (32–34)**
-> Ieškai idėjos vakarėliui? 🎉
-> Kiekviena nufotografuoja savo delnus, o tada skaitot žemėlapius kartu. Juoko, nuostabos ir netikėtų atradimų garantuota ✨
+**V — vakarėliui (32–36)**
+> Gimtadieniui, mergvakariui, staigmenai ar tiesiog vakarui su draugėmis 🥂
+> Nufotografuokit delnus ir skaitykit savo gyvenimo žemėlapius kartu. Juoko ir nuostabos netrūks ✨
 
-**W — mergvakaris (35, 36)**
-> Mergvakario pramoga, kurios dar nebandėt 👰✨
-> Nuotaka ir jos draugės nufotografuoja delnus ir palygina, ką pasakoja jų linijos. Užtenka telefono.
-
-**X — Valentino poroms (37, 38)**
-> Ką apie meilę pasakoja jūsų delnai? ♥
-> Nufotografuokit delnus ir palyginkit savo širdies linijas — puiki pramoga Valentino vakarui dviese.
-
-**Y — Valentino sau (39)**
-> Vasario 14-ąją — pirmiausia pažink savo širdį ♥
-> Kaip tu myli, ko ieškai santykiuose ir kas tave išskiria — tavo delnuose.
+**X — dviese (37, 38)**
+> Valentino dienai, sukakčiai ar tiesiog vakarui dviese ♥
+> Nufotografuokit delnus ir palyginkit, ką apie jus pasakoja jūsų linijos.
 
 > ⚠ Reklamose nėra „nupirk dovaną / dovanų kuponas“ — kiekvienas išbando ir moka pats. Porų reklamose nežadama „suderinamumo įvertinimo“ — programėlė analizuoja kiekvieną atskirai, todėl rašoma „palyginkit“.
-> V tekste „Juoko, nuostabos… garantuota“ — jei Meta atmestų kaip pažadą, pakeisk į „Juoko ir nuostabos netrūks“.
